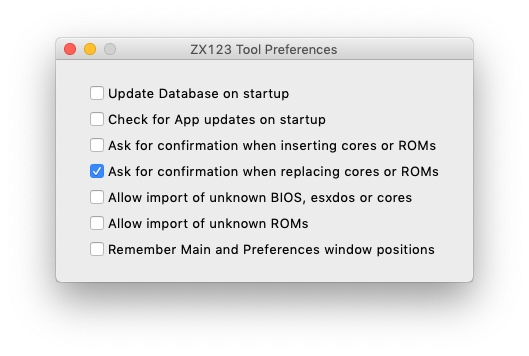
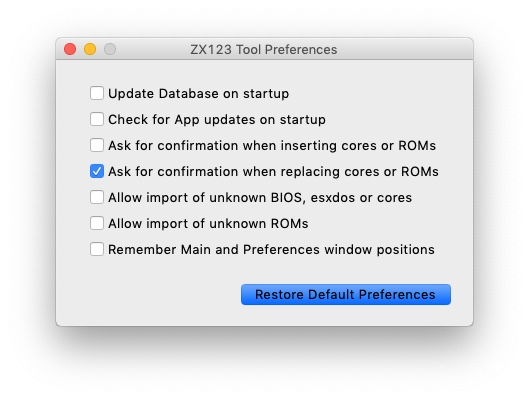
New Menu Option to check for updates Added restore default button to preferences

Changed region(s): [[0.1512, 0.2163, 0.8469, 0.6489], [0.0907, 0.6798, 0.9074, 0.8343], [0.121, 0.0927, 0.8771, 0.1854]]

diff --git a/zx123_tool_gui/__init__.py b/zx123_tool_gui/__init__.py
@@ -134,7 +134,7 @@ class App(tk.Tk):
         self.save_prefs()
         self.destroy()
 
-    def check_updates(self):
+    def check_updates(self, confirm=False):
         """Gets the latest release version from GitHub"""
         print("Checking for updates...")
         result = urllib.request.urlopen(
@@ -145,8 +145,11 @@ class App(tk.Tk):
             str_msg = f'There\'s a new version ({new_version}) of'
             str_msg += ' ZX123 Tool available to download.'
             messagebox.showinfo('Update available', str_msg, parent=self)
+        elif confirm:
+            str_msg = 'This is the latest version of ZX123 Tool.'
+            messagebox.showinfo('No update available', str_msg, parent=self)
 
-    def load_prefs(self):
+    def load_prefs(self, restore=False):
         """Load preferences from file if found, or set default settings"""
         dict_prefs = {
             'update_json': False,
@@ -158,13 +161,16 @@ class App(tk.Tk):
             'remember_pos': False
         }
         str_prefs = os.path.join(JSON_DIR, 'zx123_prefs.json')
-        if not os.path.isfile(str_prefs):
-            print('Prefs not found')
+
+        if restore:
+            self.dict_prefs = dict_prefs
+            self.save_prefs()
         else:
-            with open(str_prefs, 'r', encoding='utf-8') as prefs_handle:
-                dict_load = json.load(prefs_handle)
-            for key in dict_load:
-                dict_prefs[key] = dict_load[key]
+            if os.path.isfile(str_prefs):
+                with open(str_prefs, 'r', encoding='utf-8') as prefs_handle:
+                    dict_load = json.load(prefs_handle)
+                for key in dict_load:
+                    dict_prefs[key] = dict_load[key]
 
         self.dict_prefs = dict_prefs
 

diff --git a/zx123_tool_gui/_extra_gui.py b/zx123_tool_gui/_extra_gui.py
@@ -329,6 +329,14 @@ class PrefWindow:
                                       offvalue=0)
             check_1.grid(column=0, row=index, sticky='w', padx=10, pady=2)
 
+        bottom_frame = ttk.Frame(main_frame, padding=10)
+        bottom_frame.pack(fill='x')
+        restore_button = ttk.Button(bottom_frame,
+                                    text='Restore Default Preferences',
+                                    default='active',
+                                    command=self.restore_prefs)
+        restore_button.pack(side='right')
+
         if self.parent.dict_prefs.get('remember_pos', False):
             self.top.update_idletasks()
             height, width = self.top.winfo_height(), self.top.winfo_width()
@@ -351,6 +359,12 @@ class PrefWindow:
                                          state='normal',
                                          label='Close Preferences Window',
                                          command=self.do_close)
+
+    def restore_prefs(self):
+        """Forces default values and saves prefs"""
+        self.parent.load_prefs(restore=True)
+        for index, key in enumerate(self.dict_prefs):
+            self.extra_vars[index].set(self.parent.dict_prefs[key])
 
     def save_prefs(self, *_):
         """Saves Preferences"""

diff --git a/zx123_tool_gui/_main_gui.py b/zx123_tool_gui/_main_gui.py
@@ -112,6 +112,9 @@ def build_menubar(self):
         label='ZXUno4All Manuals',
         command=lambda: webbrowser.open(
             'https://github.com/spark2k06/ZXUno4ALL/tree/main/doc'))
+    helpmenu.add_separator()
+    helpmenu.add_command(label='Check for App updates…',
+                         command=lambda: self.check_updates(confirm=True))
 
     menubar.add_cascade(label='File', menu=self.filemenu)
     menubar.add_cascade(label='Edit', menu=editmenu)

diff --git a/zx123_tool.py b/zx123_tool.py
@@ -53,7 +53,7 @@ if sys.version_info.major == 3:
 if os.name == 'nt':
     import msvcrt  # pylint: disable=import-error
 
-__MY_VERSION__ = '3.4.0'
+__MY_VERSION__ = '3.4.1'
 
 MAIN_URL = 'https://raw.githubusercontent.com/kounch/zx123_tool/main'
 MY_DIRPATH = os.path.dirname(sys.argv[0])
